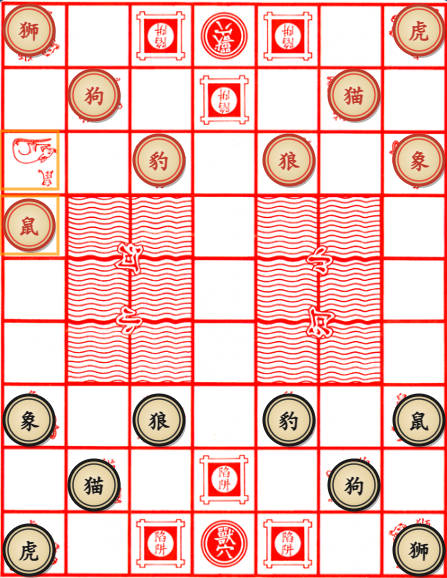
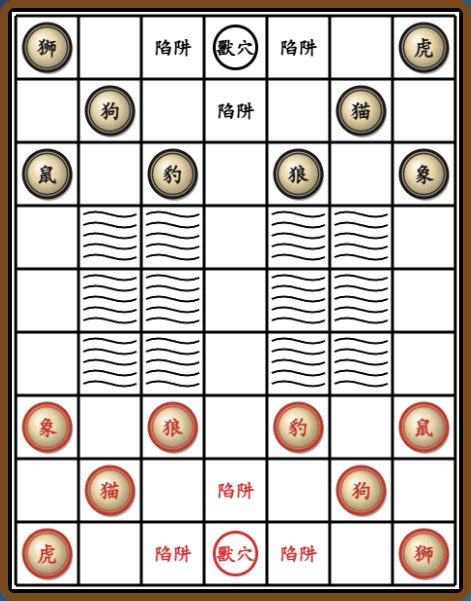
feat: redraw dou shou qi board programmatically (#104)

diff --git a/apps/board-game/dou-shou-qi/game.js b/apps/board-game/dou-shou-qi/game.js
@@ -643,34 +643,12 @@ if (typeof document !== "undefined") {
   let localTeam = null;
   let remoteTeam = null;
 
-  // Board image
-  let boardImage = null;
-
-  // Board dimensions (matching reference image proportions)
+  // Board dimensions (matching the original board layout)
   const CELL_SIZE = 65;
-  const PADDING = 30;
-  const BOARD_W = CELL_SIZE * (COLS - 1) + PADDING * 2;
-  const BOARD_H = CELL_SIZE * (ROWS - 1) + PADDING * 2;
+  const PADDING = 8;
+  const BOARD_W = CELL_SIZE * COLS + PADDING * 2;
+  const BOARD_H = CELL_SIZE * ROWS + PADDING * 2;
   const PIECE_RADIUS = 25;
-
-  function loadImage(src) {
-    return new Promise((resolve) => {
-      const img = new Image();
-      img.onload = () => {
-        boardImage = img;
-        resolve(img);
-      };
-      img.onerror = () => {
-        resolve(null);
-      };
-      img.src = src;
-    });
-  }
-
-  async function preloadImages() {
-    // Load board image only
-    await loadImage("images/dou_shou_qi_board.png");
-  }
 
   function initBoard() {
     canvas = document.getElementById("board-canvas");
@@ -686,87 +664,81 @@ if (typeof document !== "undefined") {
 
   function toCanvasX(c) {
     const col = gameState && gameState.boardFlipped ? COLS - 1 - c : c;
-    return PADDING + col * CELL_SIZE;
+    return PADDING + col * CELL_SIZE + CELL_SIZE / 2;
   }
 
   function toCanvasY(r) {
     const row = gameState && gameState.boardFlipped ? ROWS - 1 - r : r;
-    return PADDING + row * CELL_SIZE;
+    return PADDING + row * CELL_SIZE + CELL_SIZE / 2;
   }
 
   function drawBoard() {
-    // Draw board background image if loaded
-    if (boardImage) {
-      context.drawImage(boardImage, 0, 0, BOARD_W, BOARD_H);
-    } else {
-      // Fallback: draw white background with red grid
-      context.fillStyle = "#ffffff";
-      context.fillRect(0, 0, BOARD_W, BOARD_H);
+    // White board base (matches the original board image)
+    context.fillStyle = "#ffffff";
+    context.fillRect(0, 0, BOARD_W, BOARD_H);
 
-      // Red grid lines
-      context.strokeStyle = "#d32f2f";
-      context.lineWidth = 2;
+    // Neutral black outer border
+    context.strokeStyle = "#000000";
+    context.lineWidth = 4;
+    context.strokeRect(2, 2, BOARD_W - 4, BOARD_H - 4);
 
-      // Horizontal lines
-      for (let r = 0; r < ROWS; r++) {
-        context.beginPath();
-        context.moveTo(toCanvasX(0), toCanvasY(r));
-        context.lineTo(toCanvasX(COLS - 1), toCanvasY(r));
-        context.stroke();
-      }
+    // Neutral black grid lines
+    context.strokeStyle = "#000000";
+    context.lineWidth = 3;
 
-      // Vertical lines
-      for (let c = 0; c < COLS; c++) {
-        context.beginPath();
-        context.moveTo(toCanvasX(c), toCanvasY(0));
-        context.lineTo(toCanvasX(c), toCanvasY(ROWS - 1));
-        context.stroke();
-      }
+    // Horizontal lines (grid rows, including outer edges)
+    for (let r = 0; r <= ROWS; r++) {
+      context.beginPath();
+      const y = PADDING + r * CELL_SIZE;
+      context.moveTo(PADDING, y);
+      context.lineTo(PADDING + COLS * CELL_SIZE, y);
+      context.stroke();
+    }
 
-      // Draw river (red wave pattern)
-      for (let c = 1; c <= 5; c++) {
-        if (c === 3) continue; // Skip center column
-        for (let r = 3; r <= 5; r++) {
-          const cx = toCanvasX(c);
-          const cy = toCanvasY(r);
-          const halfCell = CELL_SIZE / 2;
+    // Vertical lines (grid columns, including outer edges)
+    for (let c = 0; c <= COLS; c++) {
+      context.beginPath();
+      const x = PADDING + c * CELL_SIZE;
+      context.moveTo(x, PADDING);
+      context.lineTo(x, PADDING + ROWS * CELL_SIZE);
+      context.stroke();
+    }
 
-          // Red wave pattern
-          context.strokeStyle = "#d32f2f";
-          context.lineWidth = 1.5;
-          for (let i = 0; i < 4; i++) {
-            context.beginPath();
-            const y = cy - halfCell + 10 + i * 12;
-            context.moveTo(cx - halfCell + 3, y);
-            context.quadraticCurveTo(cx, y - 5, cx + halfCell - 3, y);
-            context.stroke();
-          }
+    // River waves between the two camps (neutral black wave lines)
+    for (let c = 1; c <= 5; c++) {
+      if (c === 3) continue; // Skip center column
+      for (let r = 3; r <= 5; r++) {
+        const cx = toCanvasX(c);
+        const cy = toCanvasY(r);
+        const halfCell = CELL_SIZE / 2;
+
+        context.strokeStyle = "#000000";
+        context.lineWidth = 2;
+        for (let i = 0; i < 5; i++) {
+          const y = cy - halfCell + 9 + i * 11;
+          context.beginPath();
+          context.moveTo(cx - halfCell + 5, y);
+          context.quadraticCurveTo(cx - halfCell * 0.5, y - 5, cx, y);
+          context.quadraticCurveTo(cx + halfCell * 0.5, y + 5, cx + halfCell - 5, y);
+          context.stroke();
         }
       }
-
-      // Draw den circles
-      context.strokeStyle = "#d32f2f";
-      context.lineWidth = 2;
-      // Black den (top)
-      context.beginPath();
-      context.arc(toCanvasX(3), toCanvasY(0), 18, 0, Math.PI * 2);
-      context.stroke();
-      // Red den (bottom)
-      context.beginPath();
-      context.arc(toCanvasX(3), toCanvasY(8), 18, 0, Math.PI * 2);
-      context.stroke();
-
-      // Draw trap marks
-      context.lineWidth = 1.5;
-      // Black traps
-      drawTrapMark(toCanvasX(2), toCanvasY(0));
-      drawTrapMark(toCanvasX(4), toCanvasY(0));
-      drawTrapMark(toCanvasX(3), toCanvasY(1));
-      // Red traps
-      drawTrapMark(toCanvasX(2), toCanvasY(8));
-      drawTrapMark(toCanvasX(4), toCanvasY(8));
-      drawTrapMark(toCanvasX(3), toCanvasY(7));
     }
+
+    // Den circles: black camp (top) / red camp (bottom), with 獸穴 labels
+    context.strokeStyle = "#000000";
+    context.lineWidth = 3;
+    context.beginPath();
+    context.arc(toCanvasX(3), toCanvasY(0), 22, 0, Math.PI * 2);
+    context.stroke();
+    context.strokeStyle = "#d32f2f";
+    context.beginPath();
+    context.arc(toCanvasX(3), toCanvasY(8), 22, 0, Math.PI * 2);
+    context.stroke();
+
+    // Terrain labels (獸穴 / 陷阱) and animal names on the starting cells
+    drawTerrainLabels();
+    drawStartCharacters();
 
     // Draw selection and valid moves
     if (gameState && gameState.selectedPiece) {
@@ -789,17 +761,84 @@ if (typeof document !== "undefined") {
     }
   }
 
-  function drawTrapMark(cx, cy) {
-    const size = 12;
-    context.strokeStyle = "#d32f2f";
-    context.lineWidth = 1.5;
-    // Draw X mark
-    context.beginPath();
-    context.moveTo(cx - size, cy - size);
-    context.lineTo(cx + size, cy + size);
-    context.moveTo(cx + size, cy - size);
-    context.lineTo(cx - size, cy + size);
-    context.stroke();
+  // Label the dens (獸穴) and the traps around them (陷阱), matching the
+  // classic board design. Each camp uses its own team color.
+  function drawTerrainLabels() {
+    context.font = 'bold 20px "KaiTi", "楷体", "STKaiti", serif';
+    context.textAlign = "center";
+    context.textBaseline = "middle";
+
+    const camps = [
+      {
+        color: "#000000",
+        den: { c: 3, r: 0 },
+        traps: [
+          { c: 2, r: 0 },
+          { c: 4, r: 0 },
+          { c: 3, r: 1 },
+        ],
+      },
+      {
+        color: "#d32f2f",
+        den: { c: 3, r: 8 },
+        traps: [
+          { c: 2, r: 8 },
+          { c: 4, r: 8 },
+          { c: 3, r: 7 },
+        ],
+      },
+    ];
+
+    for (const camp of camps) {
+      context.fillStyle = camp.color;
+      context.fillText("獸穴", toCanvasX(camp.den.c), toCanvasY(camp.den.r));
+      for (const cell of camp.traps) {
+        context.fillText("陷阱", toCanvasX(cell.c), toCanvasY(cell.r));
+      }
+    }
+  }
+
+  // Print the animal name on each starting cell, matching the original board.
+  function drawStartCharacters() {
+    context.font = 'bold 30px "KaiTi", "楷体", "STKaiti", serif';
+    context.textAlign = "center";
+    context.textBaseline = "middle";
+
+    const camps = [
+      {
+        color: "#000000",
+        cells: [
+          { c: 0, r: 0, name: PIECE_NAMES[LION] },
+          { c: 6, r: 0, name: PIECE_NAMES[TIGER] },
+          { c: 1, r: 1, name: PIECE_NAMES[DOG] },
+          { c: 5, r: 1, name: PIECE_NAMES[CAT] },
+          { c: 0, r: 2, name: PIECE_NAMES[RAT] },
+          { c: 2, r: 2, name: PIECE_NAMES[LEOPARD] },
+          { c: 4, r: 2, name: PIECE_NAMES[WOLF] },
+          { c: 6, r: 2, name: PIECE_NAMES[ELEPHANT] },
+        ],
+      },
+      {
+        color: "#d32f2f",
+        cells: [
+          { c: 0, r: 6, name: PIECE_NAMES[ELEPHANT] },
+          { c: 2, r: 6, name: PIECE_NAMES[WOLF] },
+          { c: 4, r: 6, name: PIECE_NAMES[LEOPARD] },
+          { c: 6, r: 6, name: PIECE_NAMES[RAT] },
+          { c: 1, r: 7, name: PIECE_NAMES[CAT] },
+          { c: 5, r: 7, name: PIECE_NAMES[DOG] },
+          { c: 0, r: 8, name: PIECE_NAMES[TIGER] },
+          { c: 6, r: 8, name: PIECE_NAMES[LION] },
+        ],
+      },
+    ];
+
+    for (const camp of camps) {
+      context.fillStyle = camp.color;
+      for (const cell of camp.cells) {
+        context.fillText(cell.name, toCanvasX(cell.c), toCanvasY(cell.r));
+      }
+    }
   }
 
   function drawPiece(c, r, piece) {
@@ -807,30 +846,16 @@ if (typeof document !== "undefined") {
     const cy = toCanvasY(r);
     const color = piece.team;
 
-    // Shadow
-    context.fillStyle = "rgba(0, 0, 0, 0.3)";
-    context.beginPath();
-    context.arc(cx + 2, cy + 3, PIECE_RADIUS, 0, Math.PI * 2);
-    context.fill();
+    // Wooden disc with the shared glossy material
+    BoardGameTheme.glossyDisc(context, cx, cy, PIECE_RADIUS, "#e8d5a8", {
+      light: 0.75,
+      dark: 0.42,
+      rim: color === RED ? "#c0392b" : "#1a1a1a",
+      rimWidth: 3,
+      highlight: "rgba(255, 255, 255, 0.18)",
+    });
 
-    // Piece background
-    const gradient = context.createRadialGradient(cx - 3, cy - 3, 2, cx, cy, PIECE_RADIUS);
-    gradient.addColorStop(0, "#f5e6c8");
-    gradient.addColorStop(0.7, "#e8d5a8");
-    gradient.addColorStop(1, "#d4c090");
-    context.fillStyle = gradient;
-    context.beginPath();
-    context.arc(cx, cy, PIECE_RADIUS, 0, Math.PI * 2);
-    context.fill();
-
-    // Outer ring
-    context.strokeStyle = color === RED ? "#c0392b" : "#1a1a1a";
-    context.lineWidth = 3;
-    context.beginPath();
-    context.arc(cx, cy, PIECE_RADIUS, 0, Math.PI * 2);
-    context.stroke();
-
-    // Inner ring
+    // Inner decorative ring
     context.strokeStyle = color === RED ? "#e74c3c" : "#333";
     context.lineWidth = 1.5;
     context.beginPath();
@@ -994,8 +1019,8 @@ if (typeof document !== "undefined") {
     const scaleY = BOARD_H / rect.height;
     const px = (e.clientX - rect.left) * scaleX;
     const py = (e.clientY - rect.top) * scaleY;
-    let col = Math.round((px - PADDING) / CELL_SIZE);
-    let row = Math.round((py - PADDING) / CELL_SIZE);
+    let col = Math.round((px - PADDING - CELL_SIZE / 2) / CELL_SIZE);
+    let row = Math.round((py - PADDING - CELL_SIZE / 2) / CELL_SIZE);
     if (gameState.boardFlipped) {
       col = COLS - 1 - col;
       row = ROWS - 1 - row;
@@ -1140,7 +1165,6 @@ if (typeof document !== "undefined") {
     document.getElementById("rule-pve").style.display = mode === "pve" ? "block" : "none";
     document.getElementById("game-over").style.display = "none";
 
-    await preloadImages();
     initBoard();
     renderGame(gameState);
     canvas.onclick = handleCanvasClick;
